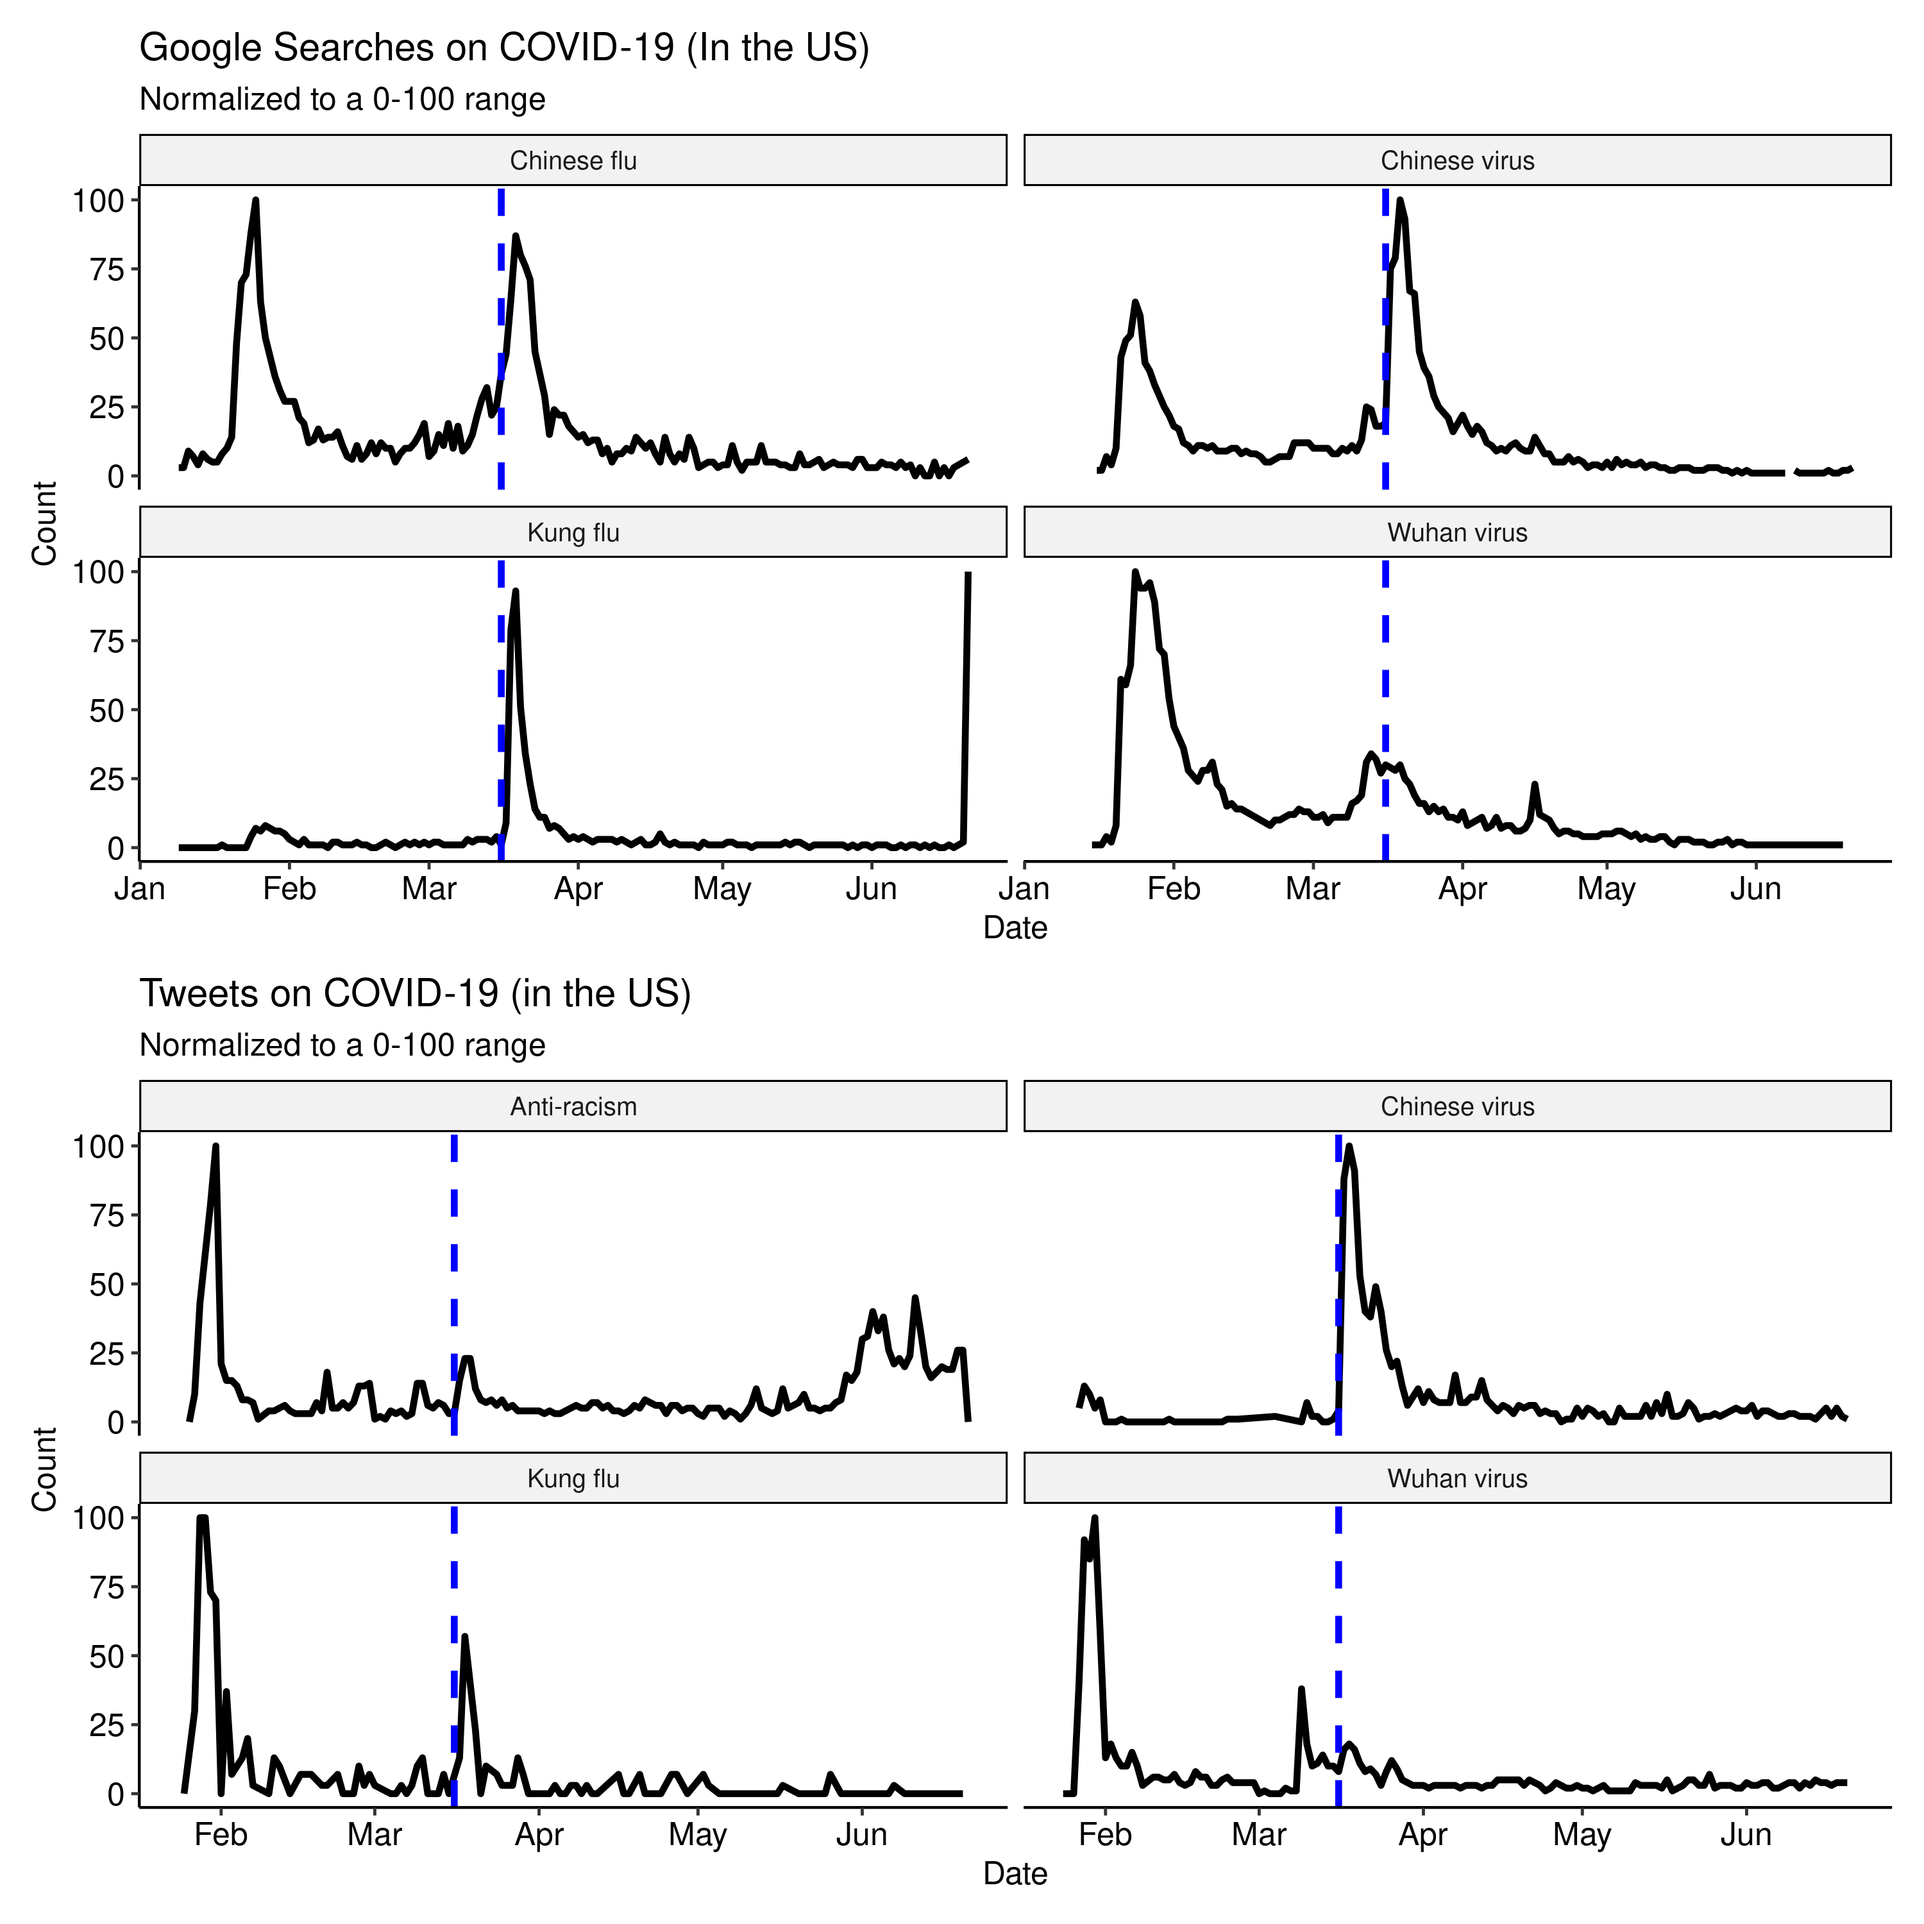
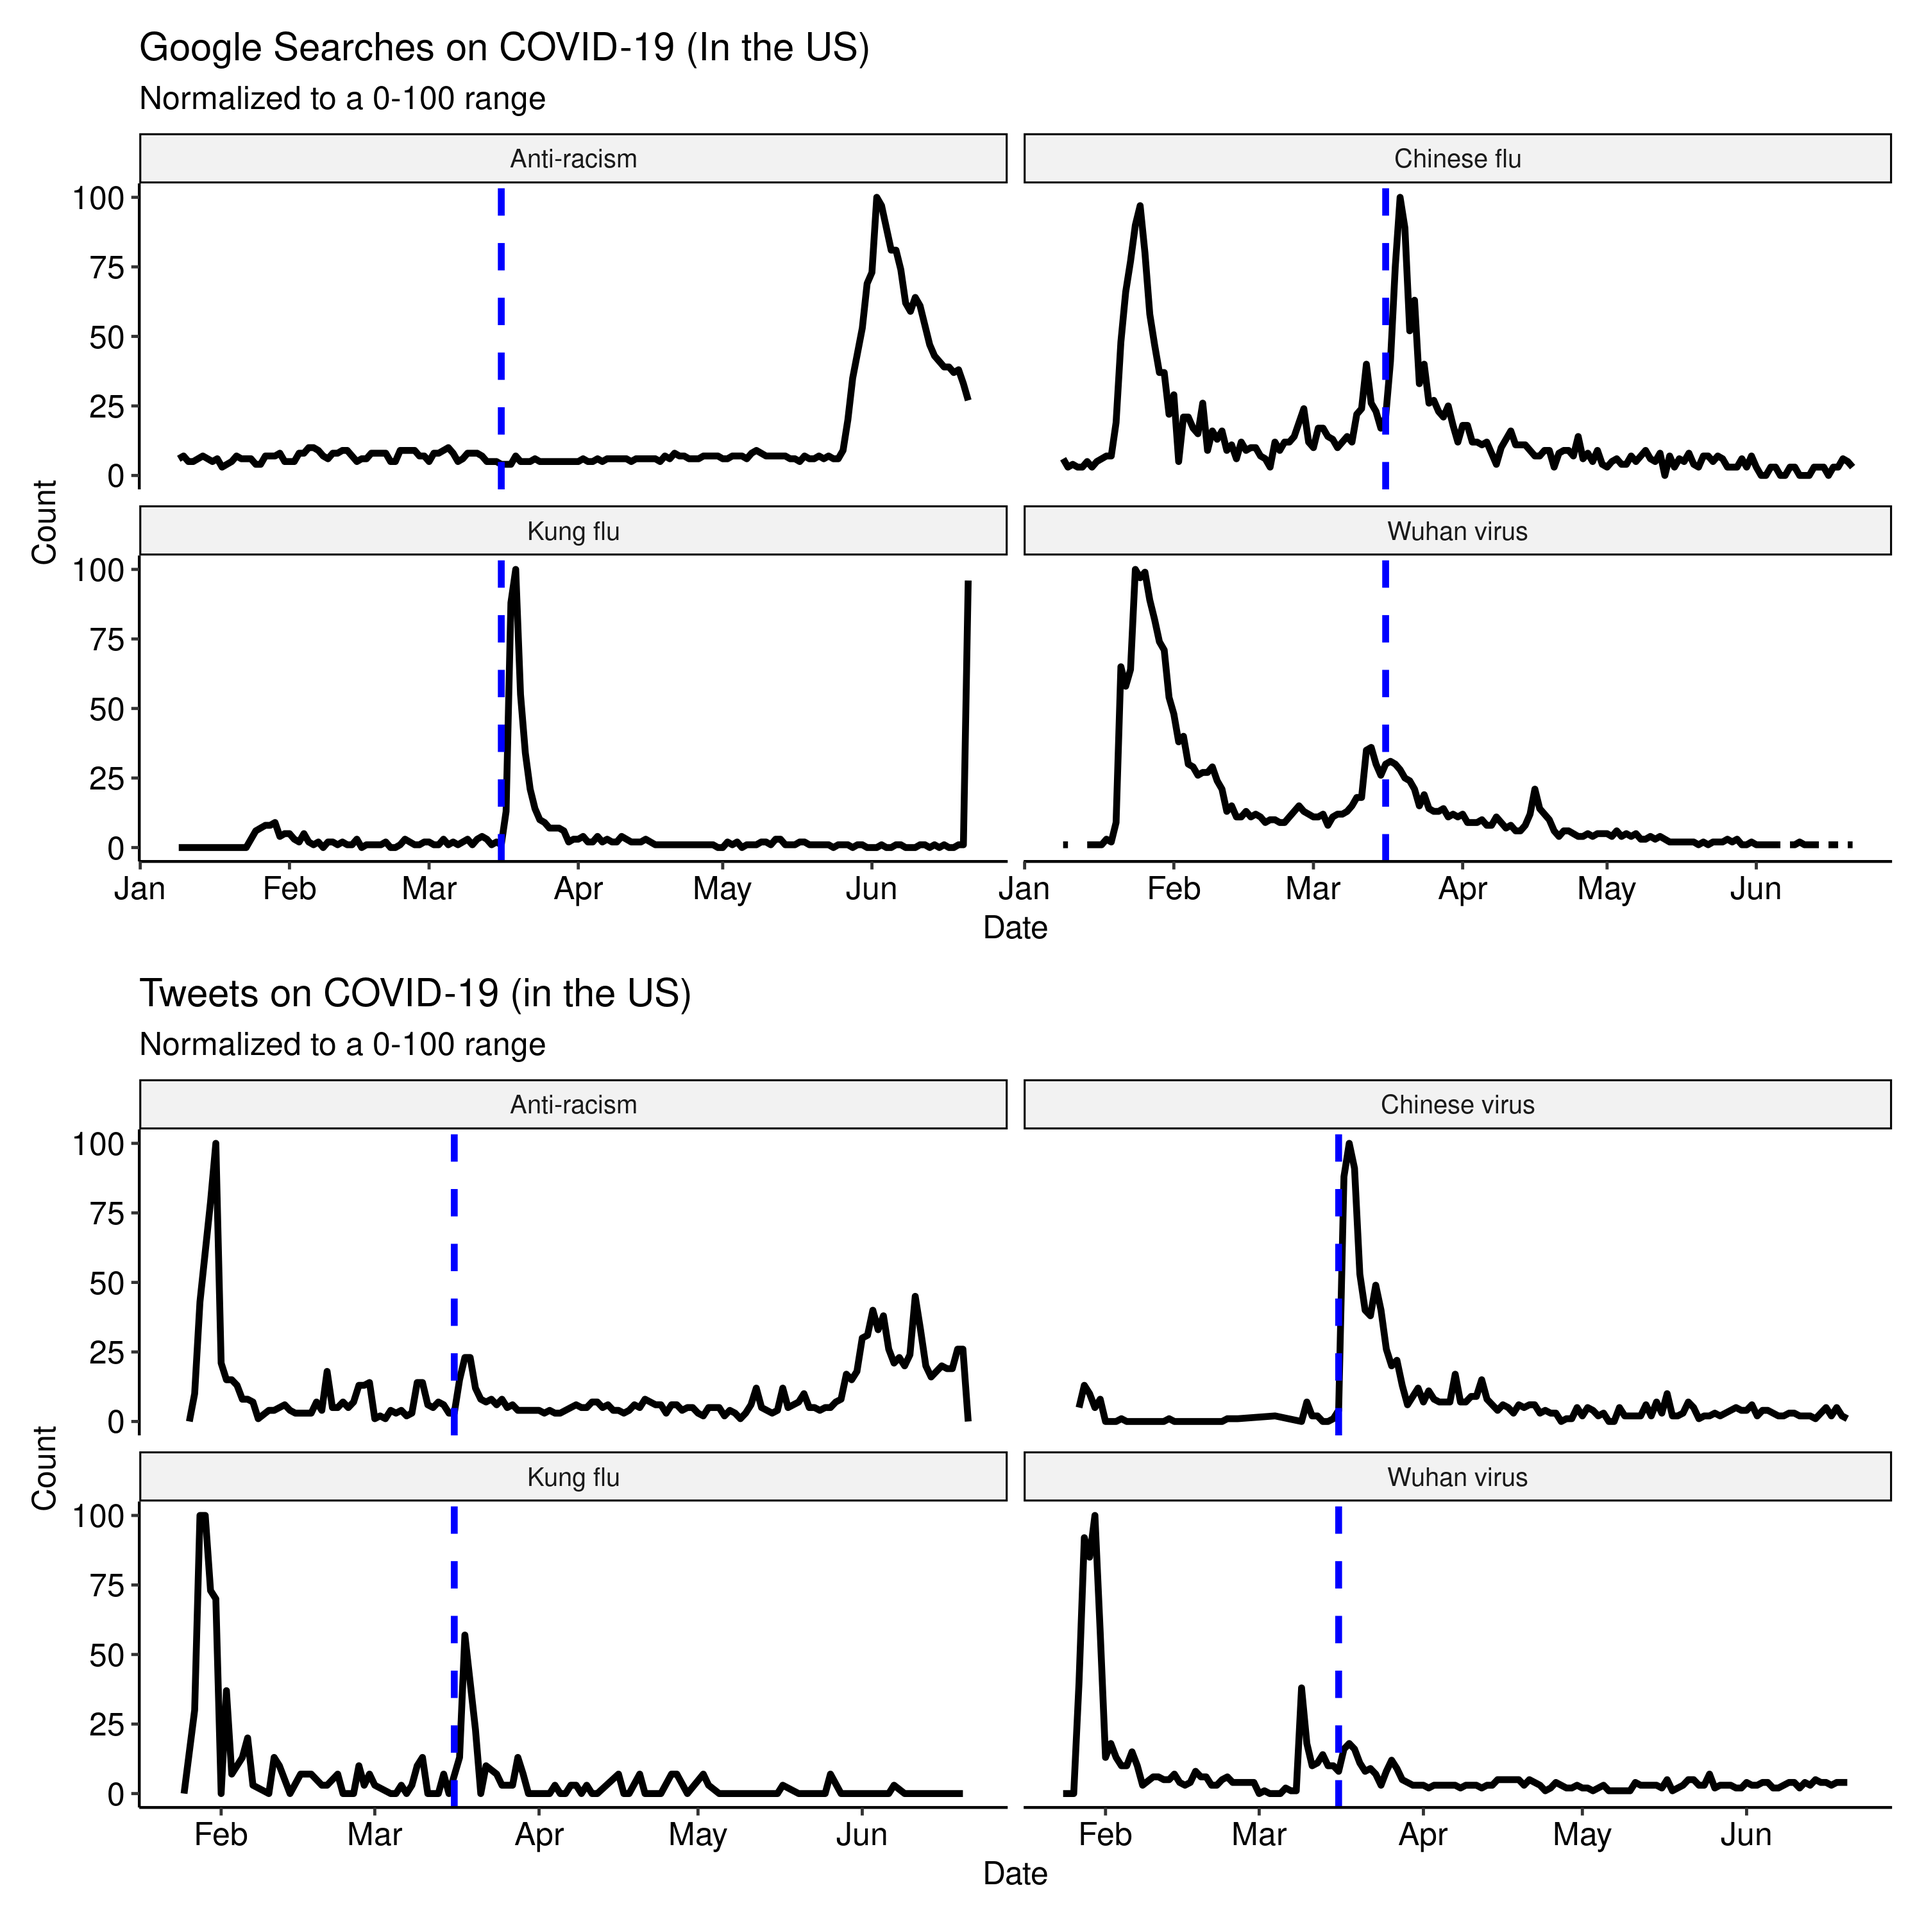
update

diff --git a/README.md b/README.md
@@ -25,7 +25,7 @@ I welcome any suggestions, comments, or questions. Please feel free to create is
 
 Figure 1. Animated Twitter trends.
 
-COVID-19 has many names. COVID-19 or Coronavirus are epidemiological terms. Chinese flu, Wuhan virus, and especially Kung flu are political charged terms. The latter terms have negative associations with Chinese/Asian communities and justify racial attacks against them. Figure 1 shows the trends of these terms, namely `Chinese flu`, `Wuhan virus`, and `Kung flu`, and anti-racism related terms, such as `racist`, `racism`, and `anti-asian` among the COVID-19 related tweets created by the users located in the United States. The X-axis indicates when these tweets were created and the Y-axis represents the count of the these tweets normalized to a 0-100 range. The blue dashed line indicates the date when president Trump referred COVID-19 as `Chinese virus`. Wuhan virus was already a popular term among the Twitter users as it was related to the origin of the virus. Trump's remark on Chinese virus made `Chinese flu` and `Kung flu` trendy in the social media as the counts of them surged after Trump made the controversial speech. Anti-racism trend seems to be intensified during the reactivated period of the Black Lives Matter movement (June 2020). 
+COVID-19 has many names. COVID-19 or Coronavirus are epidemiological terms. Chinese flu, Wuhan virus, and especially Kung flu are political charged terms. The latter terms have negative associations with Chinese/Asian communities and justify racial attacks against them. Figure 1 shows the trends of these terms, namely `Chinese flu`, `Wuhan virus`, and `Kung flu`, and anti-racism related terms, such as `racist`, `racism`, and `anti-Asian` among the COVID-19 related tweets created by the users located in the United States. The X-axis indicates when these tweets were created and the Y-axis represents the count of the these tweets normalized to a 0-100 range. The blue dashed line indicates the date when president Trump referred COVID-19 as `Chinese virus`. Wuhan virus was already a popular term among the Twitter users as it was related to the origin of the virus. Trump's remark on Chinese virus made `Chinese flu` and `Kung flu` trendy in the social media as the counts of them surged after Trump made the controversial speech. Anti-racism related words became trendy at the outset of the COVID-19 outbreak (January-February 2020) and the period of the Black Lives Matter movement (May-June 2020).
 
 ![](https://github.com/jaeyk/covid19antiasian/blob/master/outputs/overall_trend.png)
 
